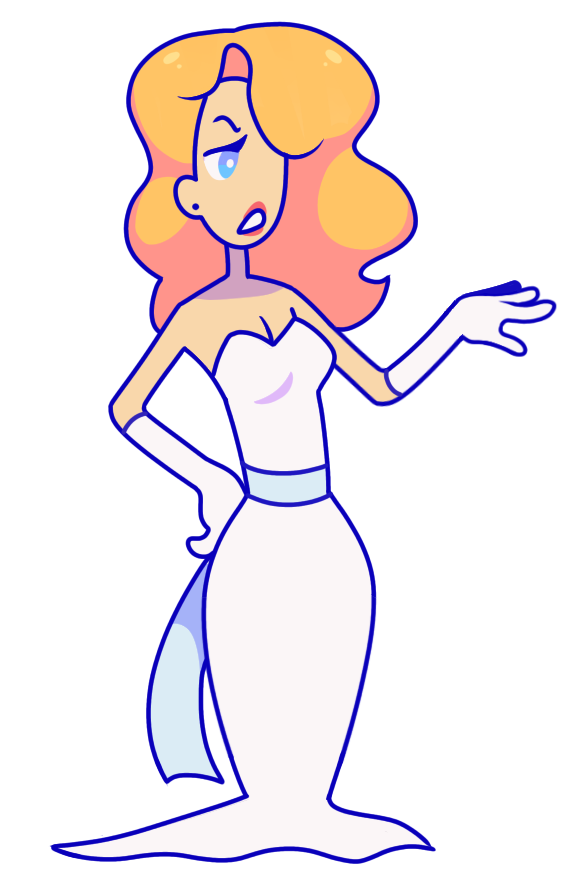
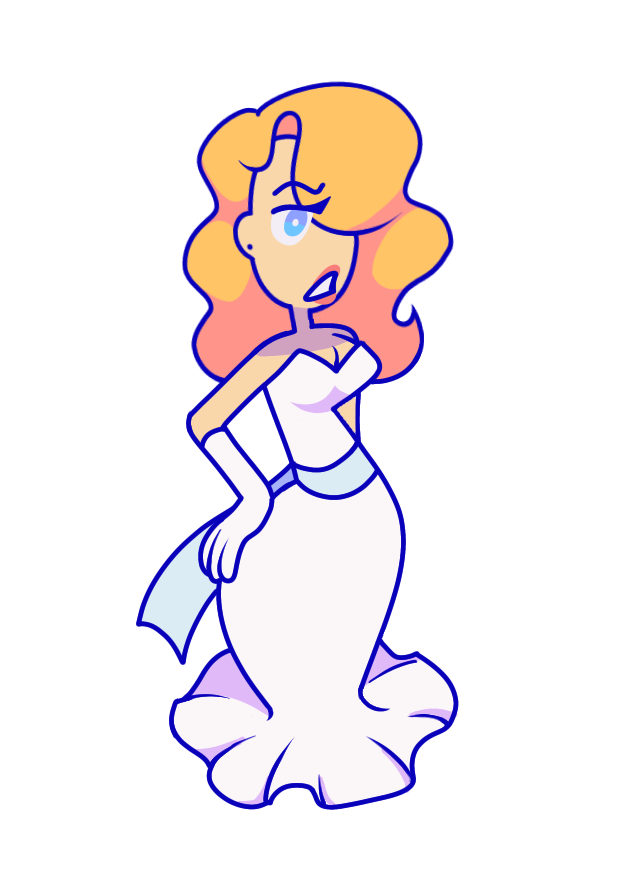
added a new bride sprite/ text box

Changed region(s): [[0.0923, 0.0, 0.9538, 0.9852]]

diff --git a/src/scripts/Scenes/GameoverScene.ts b/src/scripts/Scenes/GameoverScene.ts
@@ -19,7 +19,7 @@ export default class GameOverScene extends Phaser.Scene {
     const gameWidth: number = this.game.config.width as number;
     const gameHeight: number = this.game.config.height as number;
     this.add.image(gameWidth / 2, gameHeight / 2, 'gameover');
-    this.restart = this.add.image(gameWidth - 776, gameHeight - 100, 'restart').setScale(.5, .5);
+    this.restart = this.add.image(gameWidth - 776, gameHeight - 402, 'restart').setScale(.5, .5);
     // this.restart = this.add.button(gameWidth - 776, gameHeight - 402, 'button', this.actionOnClick(), this, 2, 1, 0);
     this.restart.setInteractive();
     this.restart.on('pointerdown', () => {

diff --git a/src/scripts/Scenes/FlowerMiniGame.ts b/src/scripts/Scenes/FlowerMiniGame.ts
@@ -40,7 +40,7 @@ export default class FlowerMiniGame extends Phaser.Scene {
     this.add.image(gameWidth / 2, gameHeight / 2, 'flowerMiniGame');
     this.flowerpetals = this.physics.add.group();
     this.deadpetals = this.physics.add.group();
-    this.trashcan = this.physics.add.sprite(225, 600, 'trashcan');
+    this.trashcan = this.physics.add.sprite(210, 600, 'trashcan');
 
     this.setFlowerPetals();
     this.createText();

diff --git a/src/scripts/main.ts b/src/scripts/main.ts
@@ -24,7 +24,7 @@ const config = {
       debug: true,
     },
   },
-  scene: [MenuScene, FlowerMiniGame, GameScene, ShoeMiniGame, CakeMiniGame, GameOverScene],
+  scene: [MenuScene, GameScene, FlowerMiniGame, ShoeMiniGame, CakeMiniGame, GameOverScene],
   audio: {
     disableWebAudio: true,
   },

diff --git a/src/scripts/GlobalState.ts b/src/scripts/GlobalState.ts
@@ -34,7 +34,7 @@ class GlobalState extends Phaser.Plugins.BasePlugin {
 
     resetGame() {
         this.score = 0;
-        this.gameTime = 60;
+        this.gameTime = 15;
         this.gameOver = false;
     }
 
